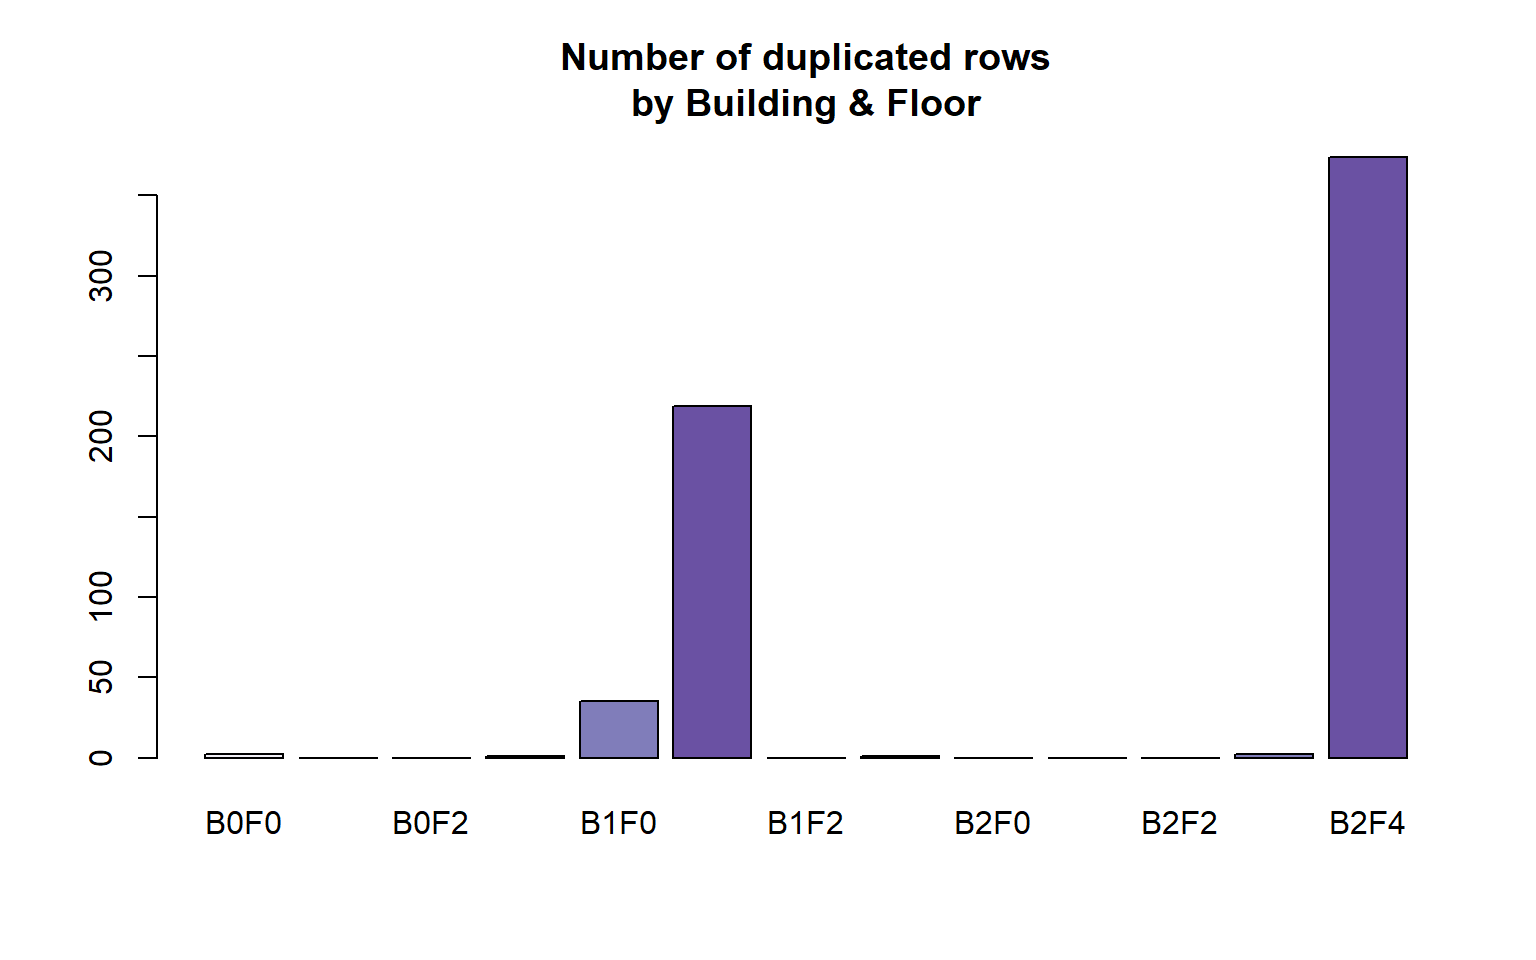
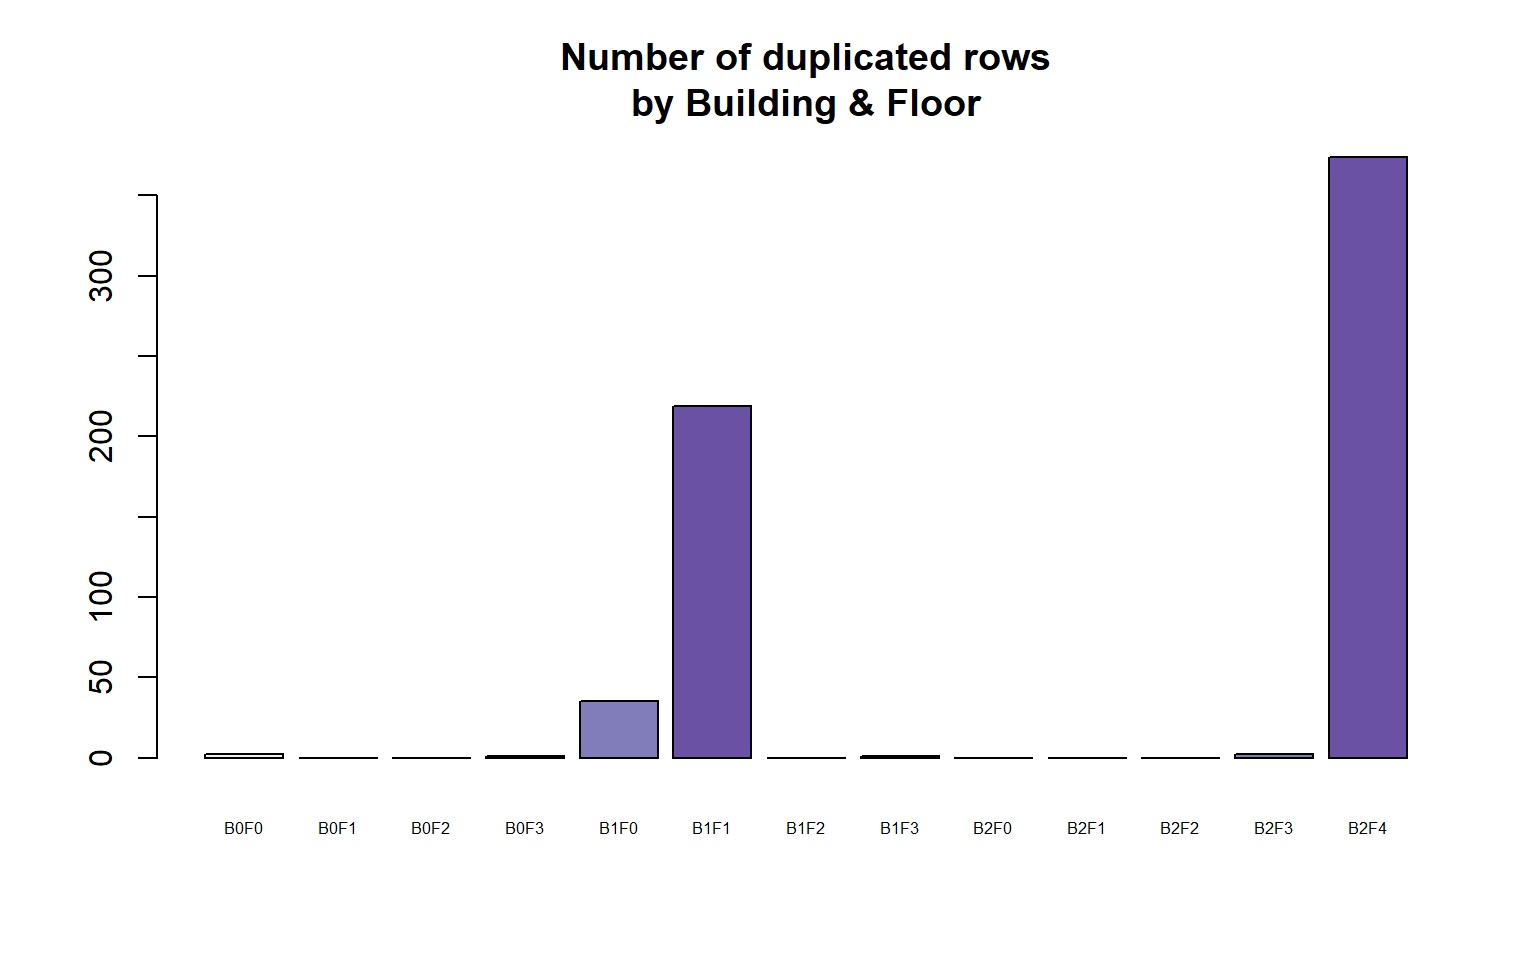
GOOD predictions plot

diff --git a/1_Preprocess_and_BuildingPrediction.html b/1_Preprocess_and_BuildingPrediction.html
@@ -11,7 +11,7 @@
 <meta name="author" content="David Gibert Bosque" />
 
 
-<title>Wi-Fi positioning system</title>
+<title>Wi-Fi positioning system. Pre-processing and Building prediction</title>
 
 <script src="1_Preprocess_and_BuildingPrediction_files/jquery-1.11.3/jquery.min.js"></script>
 <meta name="viewport" content="width=device-width, initial-scale=1" />
@@ -88,12 +88,12 @@ $(document).ready(function () {
 
 
 <div id="header">
-<h1 class="title">Wi-Fi positioning system</h1>
+<h1 class="title">Wi-Fi positioning system. Pre-processing and Building prediction</h1>
 </div>
 
 
 <div id="table-of-contents">
-    <h2><a href="#content">Wi-Fi positioning system</a></h2>
+    <h2><a href="#content">Wi-Fi positioning system. Pre-processing and Building prediction</a></h2>
     <div id="text-table-of-contents">
       <ul>
       <li><a href="#number-of-captures-by-building">Number of captures by BUILDING</a></li>
@@ -122,8 +122,8 @@ df.val<span class="op">$</span>BF =<span class="st"> </span><span class="kw">as.
 
 ## DISTRIBUTION OF THE DATA ON TRAINING AND VALIDATION
 <span class="kw">par</span>(<span class="dt">mfrow =</span> <span class="kw">c</span>(<span class="dv">1</span>,<span class="dv">2</span>))
-<span class="kw">barplot</span>(<span class="kw">table</span>(df.train<span class="op">$</span>BUILDINGID), <span class="dt">col =</span> <span class="kw">c</span>(<span class="st">&quot;orangered1&quot;</span>, <span class="st">&quot;mediumpurple3&quot;</span>, <span class="st">&quot;maroon4&quot;</span>), <span class="dt">main =</span> <span class="st">&quot;Training</span><span class="ch">\n</span><span class="st">by Building&quot;</span>)
-<span class="kw">barplot</span>(<span class="kw">table</span>(df.val<span class="op">$</span>BUILDINGID), <span class="dt">col =</span> <span class="kw">c</span>(<span class="st">&quot;orangered1&quot;</span>, <span class="st">&quot;mediumpurple3&quot;</span>, <span class="st">&quot;maroon4&quot;</span>), <span class="dt">main =</span> <span class="st">&quot;Validation</span><span class="ch">\n</span><span class="st">by Building&quot;</span>)</code></pre></div>
+<span class="kw">barplot</span>(<span class="kw">table</span>(df.train<span class="op">$</span>BUILDINGID), <span class="dt">col =</span> <span class="kw">c</span>(<span class="st">&quot;orangered1&quot;</span>, <span class="st">&quot;mediumpurple3&quot;</span>, <span class="st">&quot;maroon4&quot;</span>), <span class="dt">main =</span> <span class="st">&quot;Training</span><span class="ch">\n</span><span class="st">by Building&quot;</span>, <span class="dt">cex.names =</span> <span class="fl">0.5</span>)
+<span class="kw">barplot</span>(<span class="kw">table</span>(df.val<span class="op">$</span>BUILDINGID), <span class="dt">col =</span> <span class="kw">c</span>(<span class="st">&quot;orangered1&quot;</span>, <span class="st">&quot;mediumpurple3&quot;</span>, <span class="st">&quot;maroon4&quot;</span>), <span class="dt">main =</span> <span class="st">&quot;Validation</span><span class="ch">\n</span><span class="st">by Building&quot;</span>, <span class="dt">cex.names =</span> <span class="fl">0.5</span>)</code></pre></div>
 <p><img src="1_Preprocess_and_BuildingPrediction_files/figure-html/unnamed-chunk-4-1.png" width="768" /></p>
 <hr />
 </div>
@@ -218,9 +218,9 @@ DEVICESrm.tr =<span class="st"> </span><span class="kw">sort</span>(<span class=
 df.train =<span class="st"> </span>df.train[<span class="op">-</span>DEVICESrm.tr, ]
 
 <span class="kw">par</span>(<span class="dt">mfrow =</span> <span class="kw">c</span>(<span class="dv">1</span>,<span class="dv">2</span>))
-<span class="kw">barplot</span>(<span class="kw">table</span>(df.DEVICESnotDetected.tr<span class="op">$</span>BF), <span class="dt">col =</span> <span class="kw">c</span>(<span class="st">&quot;orangered1&quot;</span>, <span class="st">&quot;orangered1&quot;</span>, <span class="st">&quot;orangered1&quot;</span>, <span class="st">&quot;orangered1&quot;</span>, <span class="st">&quot;mediumpurple3&quot;</span>, <span class="st">&quot;mediumpurple3&quot;</span>,<span class="st">&quot;mediumpurple3&quot;</span>,<span class="st">&quot;mediumpurple3&quot;</span>, <span class="st">&quot;maroon4&quot;</span>,<span class="st">&quot;maroon4&quot;</span>,<span class="st">&quot;maroon4&quot;</span>,<span class="st">&quot;maroon4&quot;</span>,<span class="st">&quot;maroon4&quot;</span>), <span class="dt">main =</span> <span class="st">&quot;WAP&#39;s not detected</span><span class="ch">\n</span><span class="st">by device captures by building &amp; floor&quot;</span>)
+<span class="kw">barplot</span>(<span class="kw">table</span>(df.DEVICESnotDetected.tr<span class="op">$</span>BF), <span class="dt">col =</span> <span class="kw">c</span>(<span class="st">&quot;orangered1&quot;</span>, <span class="st">&quot;orangered1&quot;</span>, <span class="st">&quot;orangered1&quot;</span>, <span class="st">&quot;orangered1&quot;</span>, <span class="st">&quot;mediumpurple3&quot;</span>, <span class="st">&quot;mediumpurple3&quot;</span>,<span class="st">&quot;mediumpurple3&quot;</span>,<span class="st">&quot;mediumpurple3&quot;</span>, <span class="st">&quot;maroon4&quot;</span>,<span class="st">&quot;maroon4&quot;</span>,<span class="st">&quot;maroon4&quot;</span>,<span class="st">&quot;maroon4&quot;</span>,<span class="st">&quot;maroon4&quot;</span>), <span class="dt">main =</span> <span class="st">&quot;WAP&#39;s not detected</span><span class="ch">\n</span><span class="st">by device captures by building &amp; floor&quot;</span>, <span class="dt">cex.names =</span> <span class="fl">0.5</span>)
 
-<span class="kw">barplot</span>(<span class="kw">table</span>(df.DEVICEdetected1WAP.tr<span class="op">$</span>BF), <span class="dt">col =</span> <span class="kw">c</span>(<span class="st">&quot;orangered1&quot;</span>, <span class="st">&quot;orangered1&quot;</span>, <span class="st">&quot;orangered1&quot;</span>, <span class="st">&quot;orangered1&quot;</span>, <span class="st">&quot;mediumpurple3&quot;</span>, <span class="st">&quot;mediumpurple3&quot;</span>,<span class="st">&quot;mediumpurple3&quot;</span>,<span class="st">&quot;mediumpurple3&quot;</span>, <span class="st">&quot;maroon4&quot;</span>,<span class="st">&quot;maroon4&quot;</span>,<span class="st">&quot;maroon4&quot;</span>,<span class="st">&quot;maroon4&quot;</span>,<span class="st">&quot;maroon4&quot;</span>), <span class="dt">main =</span> <span class="st">&quot;1 WAP detected</span><span class="ch">\n</span><span class="st">by device capture by building &amp; floor&quot;</span>)</code></pre></div>
+<span class="kw">barplot</span>(<span class="kw">table</span>(df.DEVICEdetected1WAP.tr<span class="op">$</span>BF), <span class="dt">col =</span> <span class="kw">c</span>(<span class="st">&quot;orangered1&quot;</span>, <span class="st">&quot;orangered1&quot;</span>, <span class="st">&quot;orangered1&quot;</span>, <span class="st">&quot;orangered1&quot;</span>, <span class="st">&quot;mediumpurple3&quot;</span>, <span class="st">&quot;mediumpurple3&quot;</span>,<span class="st">&quot;mediumpurple3&quot;</span>,<span class="st">&quot;mediumpurple3&quot;</span>, <span class="st">&quot;maroon4&quot;</span>,<span class="st">&quot;maroon4&quot;</span>,<span class="st">&quot;maroon4&quot;</span>,<span class="st">&quot;maroon4&quot;</span>,<span class="st">&quot;maroon4&quot;</span>), <span class="dt">main =</span> <span class="st">&quot;1 WAP detected</span><span class="ch">\n</span><span class="st">by device capture by building &amp; floor&quot;</span>, <span class="dt">cex.names =</span> <span class="fl">0.5</span>)</code></pre></div>
 <p><img src="1_Preprocess_and_BuildingPrediction_files/figure-html/unnamed-chunk-9-1.png" width="768" /></p>
 <p><strong>The same operation is carried out in the VALIDATION dataset.</strong></p>
 <p><em>La misma operacion es llevada a cabo en el dataset VALIDATION.</em></p>
@@ -276,8 +276,8 @@ df.WAPs30 =<span class="st"> </span>df.train[,WAPs30]</code></pre></div>
 <div id="taking-a-glance-at-wrong-rssi-registry-captures" class="section level2">
 <h2>Taking a glance at wrong RSSI registry captures</h2>
 <div class="sourceCode"><pre class="sourceCode r"><code class="sourceCode r"><span class="kw">par</span>(<span class="dt">mfrow =</span> <span class="kw">c</span>(<span class="dv">1</span>,<span class="dv">2</span>))
-<span class="kw">barplot</span>(<span class="kw">table</span>(df.cptr30<span class="op">$</span>USERID), <span class="dt">col =</span> <span class="kw">brewer.pal</span>(<span class="dt">n =</span> <span class="dv">4</span>, <span class="dt">name =</span> <span class="st">&quot;Purples&quot;</span>), <span class="dt">main =</span> <span class="st">&quot;Registry errors</span><span class="ch">\n</span><span class="st">by UserID&quot;</span>) <span class="co">#El usuario que tiene mas errores de medicion es el USERID 6, seguido del 14.</span>
-<span class="kw">barplot</span>(<span class="kw">table</span>(df.cptr30<span class="op">$</span>BF), <span class="dt">col =</span> <span class="kw">brewer.pal</span>(<span class="dt">n =</span> <span class="dv">5</span>, <span class="dt">name =</span> <span class="st">&quot;Oranges&quot;</span>), <span class="dt">main =</span> <span class="st">&quot;Registry errors</span><span class="ch">\n</span><span class="st">by Building &amp; Floor&quot;</span>)</code></pre></div>
+<span class="kw">barplot</span>(<span class="kw">table</span>(df.cptr30<span class="op">$</span>USERID), <span class="dt">col =</span> <span class="kw">brewer.pal</span>(<span class="dt">n =</span> <span class="dv">4</span>, <span class="dt">name =</span> <span class="st">&quot;Purples&quot;</span>), <span class="dt">main =</span> <span class="st">&quot;Registry errors</span><span class="ch">\n</span><span class="st">by UserID&quot;</span>, <span class="dt">cex.names =</span> <span class="fl">0.5</span>) <span class="co">#El usuario que tiene mas errores de medicion es el USERID 6, seguido del 14.</span>
+<span class="kw">barplot</span>(<span class="kw">table</span>(df.cptr30<span class="op">$</span>BF), <span class="dt">col =</span> <span class="kw">brewer.pal</span>(<span class="dt">n =</span> <span class="dv">5</span>, <span class="dt">name =</span> <span class="st">&quot;Oranges&quot;</span>), <span class="dt">main =</span> <span class="st">&quot;Registry errors</span><span class="ch">\n</span><span class="st">by Building &amp; Floor&quot;</span>, <span class="dt">cex.names =</span> <span class="fl">0.5</span>)</code></pre></div>
 <p><img src="1_Preprocess_and_BuildingPrediction_files/figure-html/unnamed-chunk-13-1.png" width="768" /></p>
 <div class="sourceCode"><pre class="sourceCode r"><code class="sourceCode r"><span class="kw">par</span>(<span class="dt">mfrow =</span> <span class="kw">c</span>(<span class="dv">1</span>,<span class="dv">1</span>))
 
@@ -319,7 +319,7 @@ df.cptr30 <span class="op">%&gt;%</span>
 <h4>Visualizing how many anomalous captures will be removed from each floor</h4>
 <div class="sourceCode"><pre class="sourceCode r"><code class="sourceCode r">vec.cptr30 =<span class="st"> </span><span class="kw">as.integer</span>(<span class="kw">row.names</span>(df.cptr30))
 
-<span class="kw">barplot</span>(<span class="kw">table</span>(df.train<span class="op">$</span>BF) <span class="op">-</span><span class="st"> </span><span class="kw">table</span>(df.train[<span class="op">-</span>vec.cptr30,]<span class="op">$</span>BF), <span class="dt">col =</span> <span class="kw">brewer.pal</span>(<span class="dt">n =</span> <span class="dv">7</span>, <span class="dt">name =</span> <span class="st">&quot;Purples&quot;</span>), <span class="dt">main =</span> <span class="st">&quot;Number of deleted records</span><span class="ch">\n</span><span class="st">by Building &amp; Floor&quot;</span>)</code></pre></div>
+<span class="kw">barplot</span>(<span class="kw">table</span>(df.train<span class="op">$</span>BF) <span class="op">-</span><span class="st"> </span><span class="kw">table</span>(df.train[<span class="op">-</span>vec.cptr30,]<span class="op">$</span>BF), <span class="dt">col =</span> <span class="kw">brewer.pal</span>(<span class="dt">n =</span> <span class="dv">7</span>, <span class="dt">name =</span> <span class="st">&quot;Purples&quot;</span>), <span class="dt">main =</span> <span class="st">&quot;Number of deleted records</span><span class="ch">\n</span><span class="st">by Building &amp; Floor&quot;</span>, <span class="dt">cex.names =</span> <span class="fl">0.5</span>)</code></pre></div>
 <p><img src="1_Preprocess_and_BuildingPrediction_files/figure-html/unnamed-chunk-14-1.png" width="768" /></p>
 <div class="sourceCode"><pre class="sourceCode r"><code class="sourceCode r">df.train =<span class="st"> </span>df.train[<span class="op">-</span>vec.cptr30, ]</code></pre></div>
 <p><strong>About 450 records with registration problems will be removed, focusing on floors 4th and 5th from 2nd buiding. This could affect the kappa coefficient later on.</strong></p>
@@ -334,7 +334,7 @@ df.cptr30 <span class="op">%&gt;%</span>
 <div class="sourceCode"><pre class="sourceCode r"><code class="sourceCode r">duplicated.rows =<span class="st"> </span>df.train[<span class="kw">duplicated</span>(df.train), ]
 <span class="kw">nrow</span>(duplicated.rows)</code></pre></div>
 <pre><code>## [1] 634</code></pre>
-<div class="sourceCode"><pre class="sourceCode r"><code class="sourceCode r"><span class="kw">barplot</span>(<span class="kw">table</span>(duplicated.rows<span class="op">$</span>BF), <span class="dt">col =</span> <span class="kw">brewer.pal</span>(<span class="dt">n =</span> <span class="dv">7</span>, <span class="dt">name =</span> <span class="st">&quot;Purples&quot;</span>), <span class="dt">main =</span> <span class="st">&quot;Number of duplicated rows</span><span class="ch">\n</span><span class="st">by Building &amp; Floor&quot;</span>)</code></pre></div>
+<div class="sourceCode"><pre class="sourceCode r"><code class="sourceCode r"><span class="kw">barplot</span>(<span class="kw">table</span>(duplicated.rows<span class="op">$</span>BF), <span class="dt">col =</span> <span class="kw">brewer.pal</span>(<span class="dt">n =</span> <span class="dv">7</span>, <span class="dt">name =</span> <span class="st">&quot;Purples&quot;</span>), <span class="dt">main =</span> <span class="st">&quot;Number of duplicated rows</span><span class="ch">\n</span><span class="st">by Building &amp; Floor&quot;</span>,<span class="dt">cex.names =</span> <span class="fl">0.5</span>)</code></pre></div>
 <p><img src="1_Preprocess_and_BuildingPrediction_files/figure-html/unnamed-chunk-15-1.png" width="768" /></p>
 <div class="sourceCode"><pre class="sourceCode r"><code class="sourceCode r">df.train =<span class="st"> </span>df.train[<span class="op">!</span><span class="kw">duplicated</span>(df.train), ]</code></pre></div>
 <p><strong>Removing another 219 records from building 1 floor 1 and 374 from building 2 floor 4.</strong></p>
@@ -359,7 +359,7 @@ df.train<span class="op">$</span>BUILDINGID =<span class="st"> </span><span clas
 building.tr =<span class="st"> </span>df.train[building.vec<span class="op">$</span>Resample1, <span class="kw">c</span>(<span class="dv">1</span><span class="op">:</span><span class="kw">last</span>(<span class="kw">grep</span>(<span class="dt">pattern =</span> <span class="st">&quot;WAP&quot;</span>, <span class="kw">names</span>(df.train))), <span class="kw">which</span>(<span class="kw">names</span>(df.train) <span class="op">==</span><span class="st"> &quot;BUILDINGID&quot;</span>))]
 building.tr<span class="op">$</span>BUILDINGID =<span class="st"> </span><span class="kw">factor</span>(building.tr<span class="op">$</span>BUILDINGID)
 
-<span class="co">#Proporcion de datos en TRAIN y SAMPLE</span>
+<span class="co">#Data proportion from TRAINING (total) and VALIDATION (sample)</span>
 <span class="kw">prop.table</span>(<span class="kw">table</span>(df.train<span class="op">$</span>BUILDINGID))</code></pre></div>
 <pre><code>## 
 ##         0         1         2 
